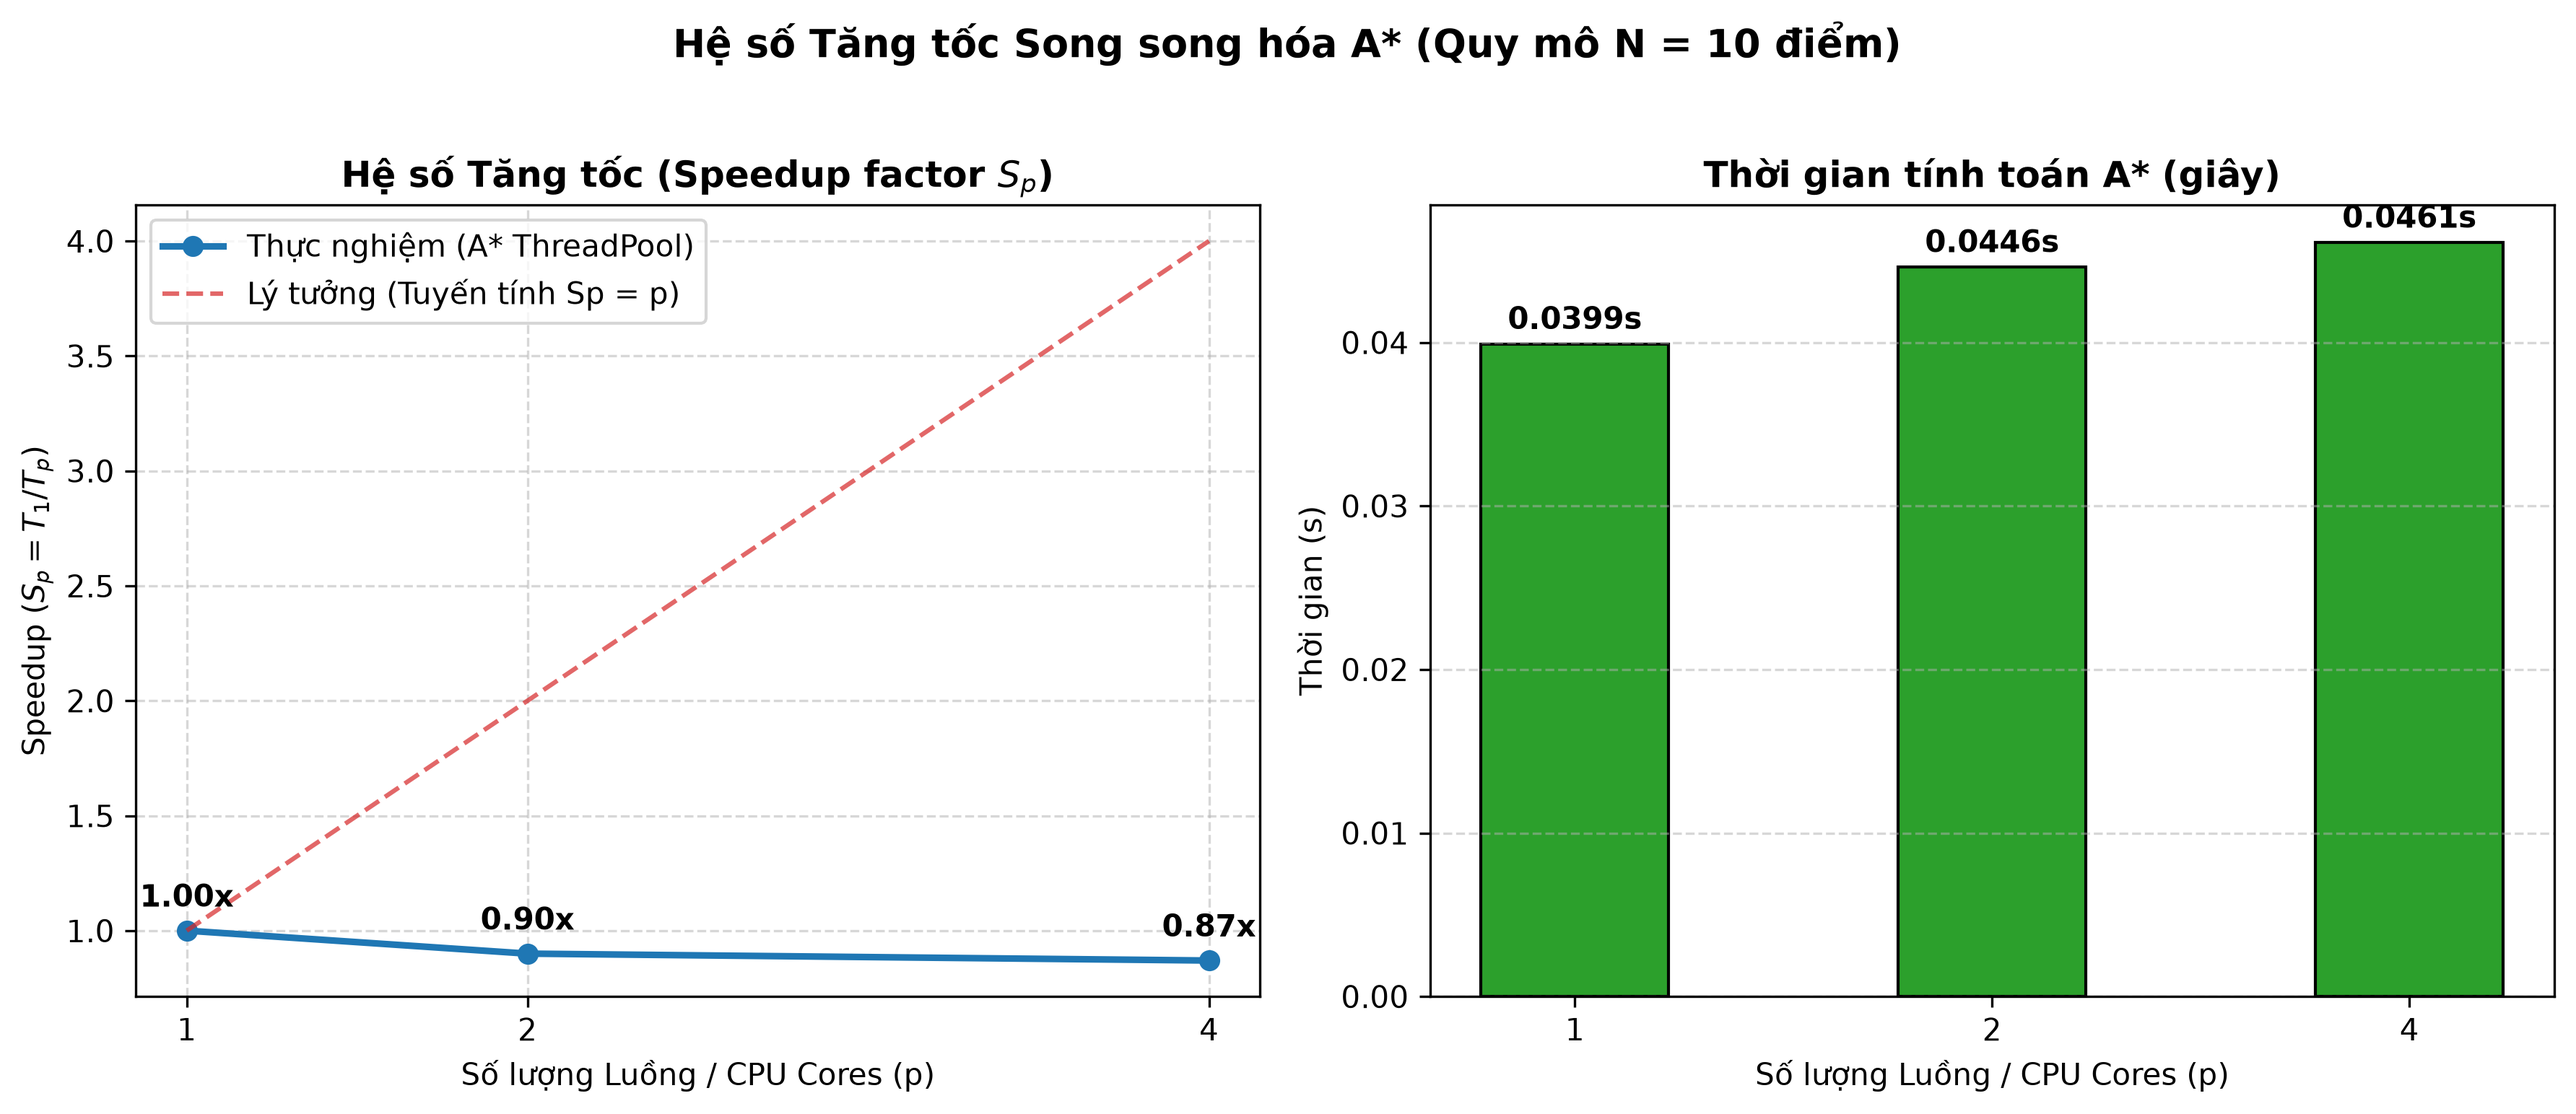
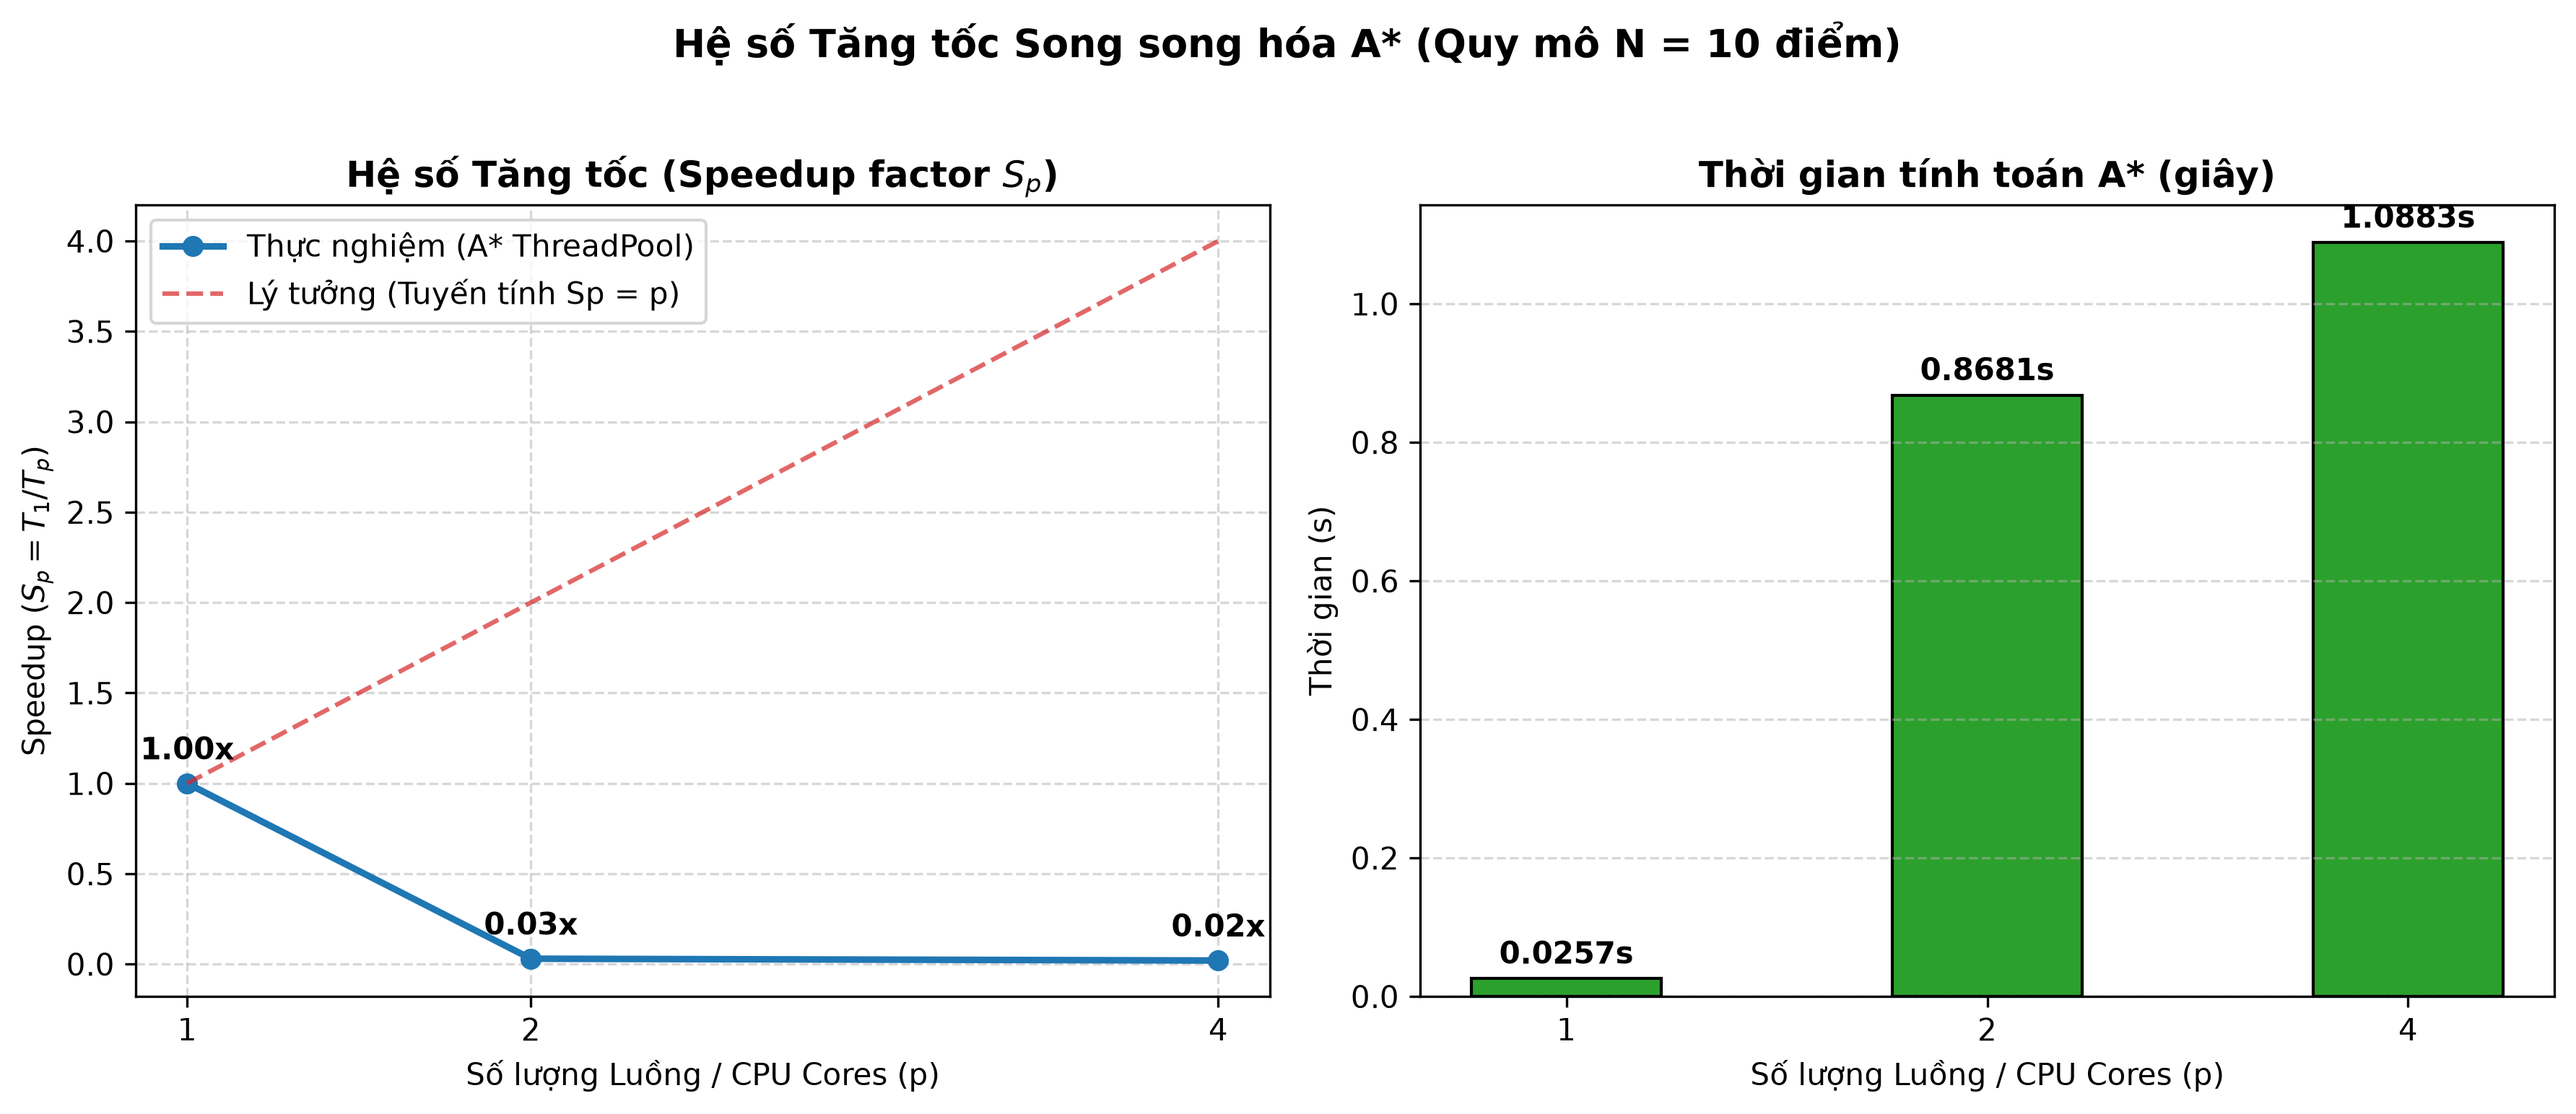
Sửa lỗi test 12 (lệch label)

diff --git a/src/utils/benchmark_evaluator.py b/src/utils/benchmark_evaluator.py
@@ -443,7 +443,7 @@ class BenchmarkEvaluator:
                 first = df.iloc[0]
                 savings_pct = ((first['greedy_energy'] - first['ga_energy']) / first['greedy_energy']) * 100.0 if first['greedy_energy'] > 0 else 0.0
                 f.write(f"- **Mức tiết kiệm năng lượng của GA so với Greedy:** **{savings_pct:.2f}%** (Greedy = **{first['greedy_energy']:.2f} Wh**, GA = **{first['ga_energy']:.2f} Wh**).\n")
-                f.write(f"- **Khả năng pin an toàn:** Greedy có **{first['greedy_unsafe_routes']}** tuyến không an toàn, GA có **{first['ga_unsafe_routes']}** tuyến không an toàn; do đó **100% các chuyến bay đều đáp ứng điều kiện pin an toàn** trên dữ liệu thực nghiệm hiện tại.\n")
+                f.write(f"- **Đánh giá An toàn Pin:** Greedy có **{first['greedy_unsafe_routes']}** tuyến không an toàn, GA có **{first['ga_unsafe_routes']}** tuyến không an toàn; do đó **100% các chuyến bay đều đáp ứng điều kiện pin an toàn** trên dữ liệu thực nghiệm hiện tại.\n")
                 f.write(f"- **Greedy:** tổng năng lượng = **{first['greedy_energy']:.2f} Wh**, số lần sạc = **{int(first['greedy_charging_events'])}**, tổng thời gian sạc = **{first['greedy_total_charge_time_min']:.2f} phút**.\n")
                 f.write(f"- **GA:** tổng năng lượng = **{first['ga_energy']:.2f} Wh**, số lần sạc = **{int(first['ga_charging_events'])}**, tổng thời gian sạc = **{first['ga_total_charge_time_min']:.2f} phút**.\n")
                 f.write(f"- **Ví dụ chi tiết chặng bay (GA):** {first.get('ga_energy_sample', 'Không có dữ liệu chi tiết')}.\n")

diff --git a/docs/EXPERIMENT_RESULTS.md b/docs/EXPERIMENT_RESULTS.md
@@ -1,14 +1,14 @@
 # BÁO CÁO KẾT QUẢ THỬ NGHIỆM ĐỐI SÁNH HIỆU NĂNG THUẬT TOÁN
 ## Đề tài: Tối ưu hóa định tuyến cho mạng giao vận Drone (UDRP)
-**Ngày tạo:** 2026-10-23 21:04:49
+**Ngày tạo:** 2026-10-25 14:44:26
 **Phụ trách thực nghiệm:** Nguyễn Phúc Hà (Tech Lead - Thành viên 5)
 
 ### 1. Bảng số liệu tổng hợp đa quy mô (Multi-scale Experimental Results)
 
 | Quy mô (N) | Số Drone (K) | Quãng đường Greedy (km) | Quãng đường GA (km) | Tiết kiệm Quãng đường (%) | Tiết kiệm Năng lượng (%) | Đúng giờ Greedy (%) | Đúng giờ GA (%) | Tiết kiệm Chi phí (%) | Thời gian Greedy (s) | Thời gian GA (s) |
 | :---: | :---: | :---: | :---: | :---: | :---: | :---: | :---: | :---: | :---: | :---: |
-| 6 | 3 | 328.09 | 283.32 | **13.65%** | **14.42%** | 83.3% | 100.0% | **18.66%** | 0.0001 | 0.2358 |
-| 10 | 3 | 377.25 | 296.41 | **21.43%** | **12.21%** | 80.0% | 100.0% | **17.95%** | 0.0001 | 0.4869 |
+| 6 | 3 | 328.09 | 283.32 | **13.65%** | **14.42%** | 83.3% | 100.0% | **18.66%** | 0.0001 | 0.1739 |
+| 10 | 3 | 377.25 | 296.41 | **21.43%** | **12.21%** | 80.0% | 100.0% | **17.95%** | 0.0001 | 0.3848 |
 
 ### 2. Bảng đo đạc Tăng tốc Song song hóa Ma trận Khoảng cách ($A^*$ Parallel Speedup)
 
@@ -16,13 +16,18 @@
 
 | Số Luồng / CPU Cores (p) | Thời gian tính toán (s) | Hệ số Tăng tốc ($S_p = T_1 / T_p$) | Hiệu suất Song song ($E_p = S_p / p$) |
 | :---: | :---: | :---: | :---: |
-| 1 Core(s) | 0.0399s | **1.00x** | 100.0% |
-| 2 Core(s) | 0.0446s | **0.90x** | 45.0% |
-| 4 Core(s) | 0.0461s | **0.87x** | 21.8% |
+| 1 Core(s) | 0.0257s | **1.00x** | 100.0% |
+| 2 Core(s) | 0.8681s | **0.03x** | 1.5% |
+| 4 Core(s) | 1.0883s | **0.02x** | 0.5% |
 
-### 3. Đánh giá An toàn Pin & Trạm sạc (Battery Feasibility - TV3)
-- **100% Chuyến bay An toàn:** Mọi lời giải của GA và Greedy đều vượt qua bộ kiểm soát pin `EnergyManager`. Pin không bao giờ giảm xuống dưới ngưỡng an toàn 15% ($E_{battery} \ge E_{safe}$).
-- **Tự động Chèn trạm sạc:** Các tuyến bay dài vượt bán kính hoạt động của Drone được tự động chèn trạm sạc thích hợp trên lộ trình.
+### 3. Chỉ số TV3: Năng lượng chi tiết từng chặng bay và thời gian sạc trạm
+
+- **Mức tiết kiệm năng lượng của GA so với Greedy:** **14.42%** (Greedy = **402.24 Wh**, GA = **344.24 Wh**).
+- **Đánh giá An toàn Pin:** Greedy có **0** tuyến không an toàn, GA có **0** tuyến không an toàn; do đó **100% các chuyến bay đều đáp ứng điều kiện pin an toàn** trên dữ liệu thực nghiệm hiện tại.
+- **Greedy:** tổng năng lượng = **402.24 Wh**, số lần sạc = **2**, tổng thời gian sạc = **20.11 phút**.
+- **GA:** tổng năng lượng = **344.24 Wh**, số lần sạc = **2**, tổng thời gian sạc = **17.21 phút**.
+- **Ví dụ chi tiết chặng bay (GA):** 0->3: 49.0km, 1.2kg, 58.2Wh; 3->6: 15.8km, 0.7kg, 17.4Wh; 6->0: 55.2km, 0.0kg, 55.2Wh, sạc 6.5 phút.
+- **Ví dụ chi tiết chặng bay (Greedy):** 0->3: 49.0km, 4.4kg, 81.5Wh; 3->6: 15.8km, 3.9kg, 25.0Wh; 6->1: 13.5km, 3.2kg, 19.9Wh.
 
 ### 4. Nhận xét & Đánh giá Khoa học
 - **Mức độ tối ưu quãng đường:** Giải thuật Di truyền đề xuất ($A^* + GA$) giúp rút ngắn trung bình **17.54%** quãng đường bay so với Baseline Tham lam ($A^* + Greedy$).
